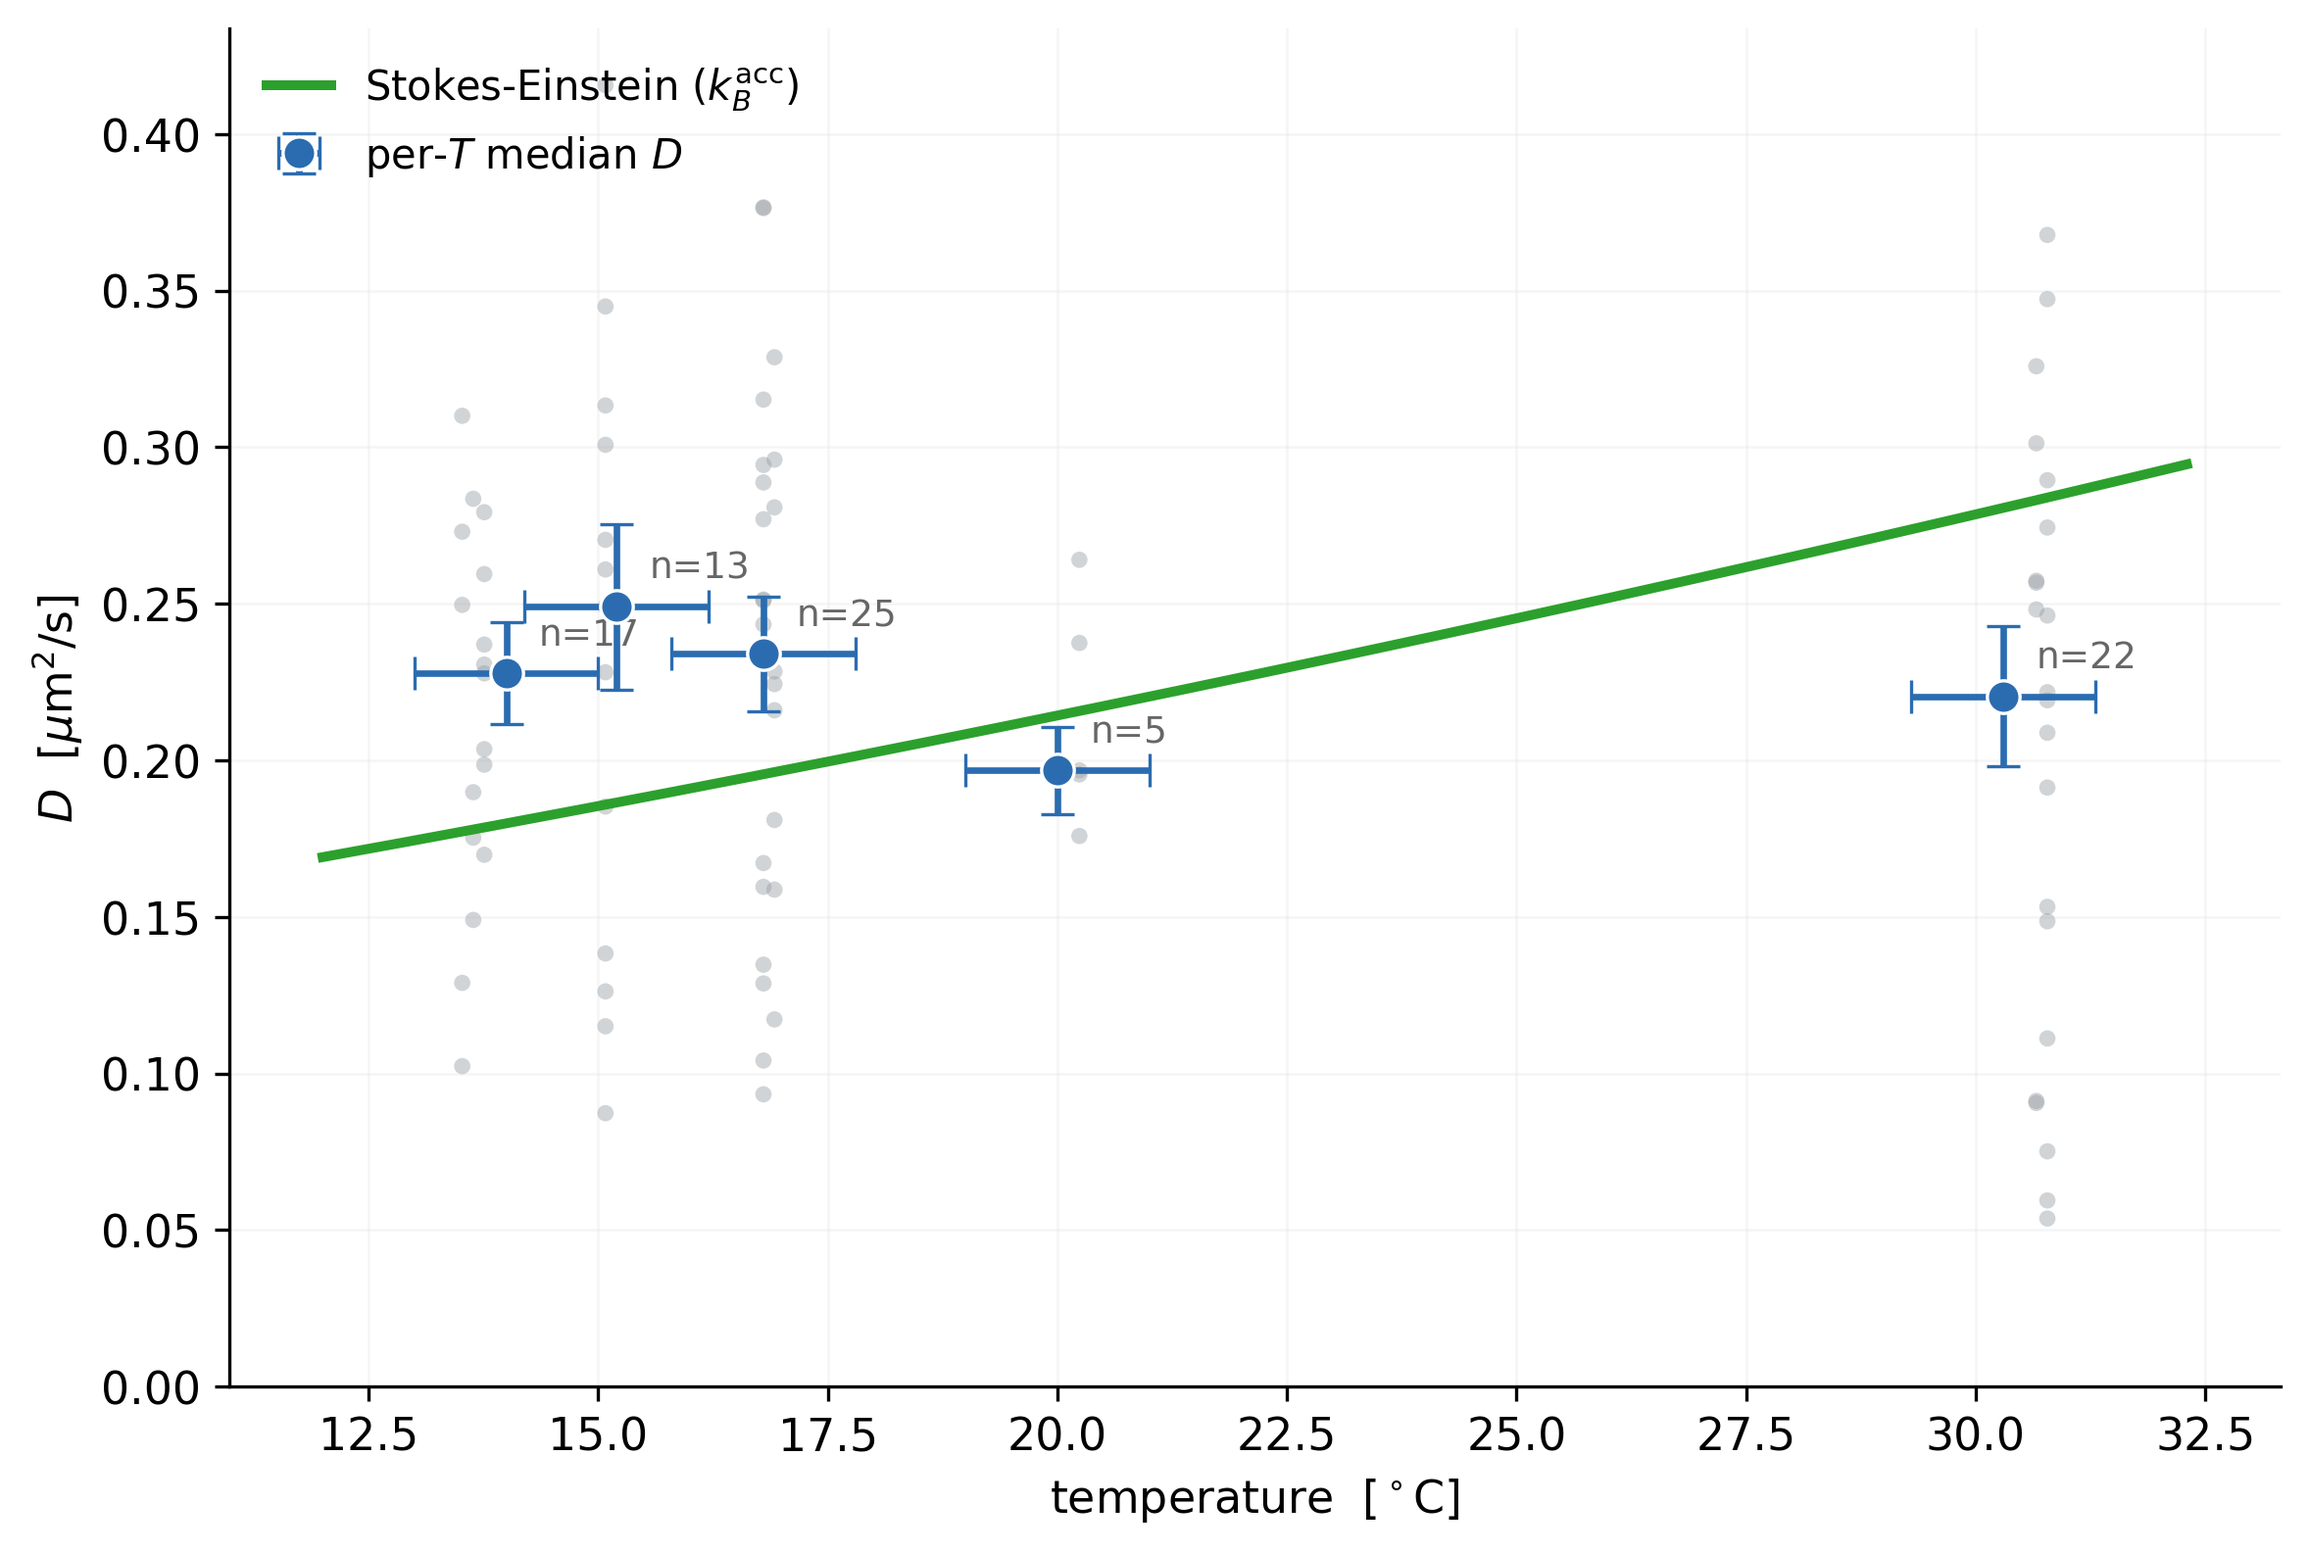
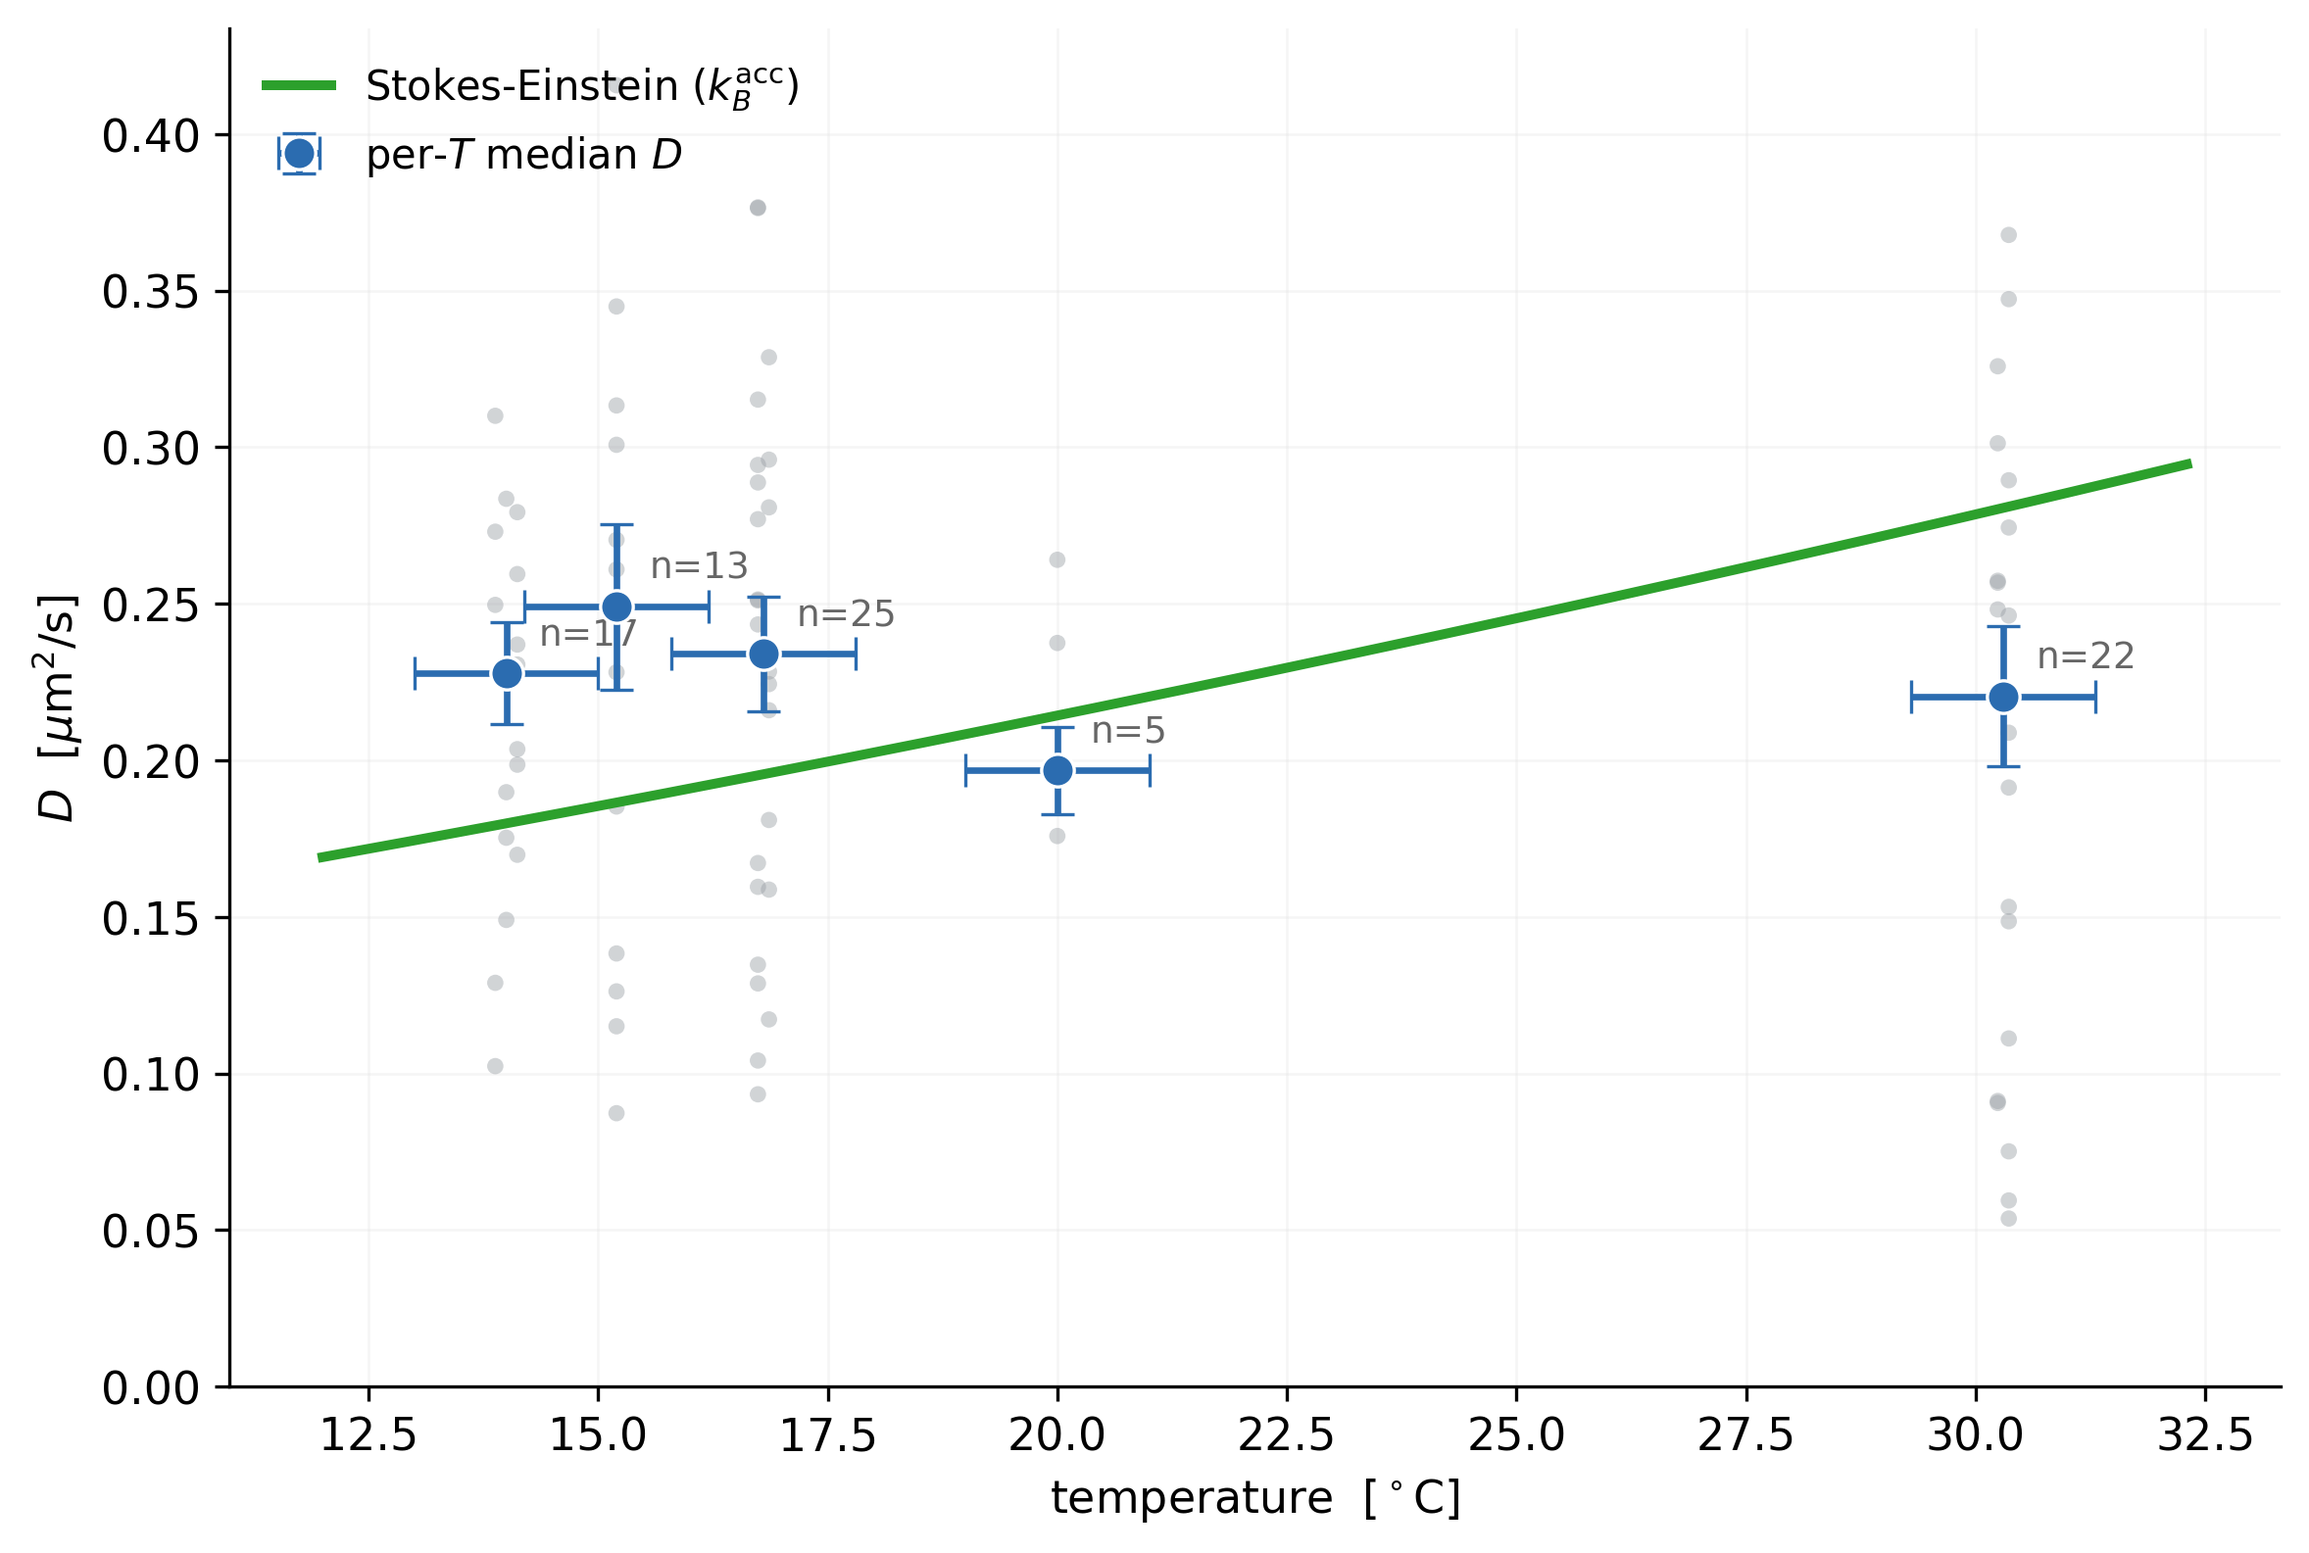
Week 2 D-vs-T: center the per-bead jitter on each temperature
The gray per-bead cloud was jittered by each run's GLOBAL index across all runs,
so a temperature's whole cloud drifted to one side (e.g. 14 C left, 30.3 C right)
while the median marker stayed at the true T -- making the median look offset
from its own points. Now the jitter is per-temperature, symmetric about each T,
so every cloud (and its median) shares the same x. Report copy refreshed.

diff --git a/experiments/week2-temperature-dependence/plot_D_vs_T.py b/experiments/week2-temperature-dependence/plot_D_vs_T.py
@@ -103,13 +103,19 @@ def main():
     ax.plot(Tg, se_curve_um2_s(Tg), "-", color=GREEN, lw=2.4, zorder=3,
             label=r"Stokes-Einstein ($k_B^{\mathrm{acc}}$)")
 
-    # faint per-bead points, x-jittered by run so same-T runs separate
-    runs = sorted(allfree["run"].unique(), key=lambda s: int(s[3:]))
-    for i, run in enumerate(runs):
-        gp = allfree[allfree["run"] == run]
-        jit = (i - (len(runs) - 1) / 2) * 0.12
-        ax.scatter(gp["T"] + jit, gp["D_scaled"], s=16, color=GREY, alpha=0.45,
-                   edgecolors="none", zorder=2)
+    # faint per-bead points, x-jittered PER TEMPERATURE so each cloud stays
+    # centered on its own T (and thus on its median marker); same-T runs are
+    # spread symmetrically around T so they don't overlap.
+    from collections import defaultdict
+    runs_by_T = defaultdict(list)
+    for run in sorted(allfree["run"].unique(), key=lambda s: int(s[3:])):
+        runs_by_T[float(allfree.loc[allfree["run"] == run, "T"].iloc[0])].append(run)
+    for T_run, runs_here in runs_by_T.items():
+        for k, run in enumerate(runs_here):
+            jit = (k - (len(runs_here) - 1) / 2) * 0.12
+            gp = allfree[allfree["run"] == run]
+            ax.scatter(gp["T"] + jit, gp["D_scaled"], s=16, color=GREY,
+                       alpha=0.45, edgecolors="none", zorder=2)
 
     # per-T median, with +/-SE (y) and +/-1 C (x) bars
     ax.errorbar(tab["T"], tab["D_at_1um"], yerr=tab["D_at_1um_se"],
